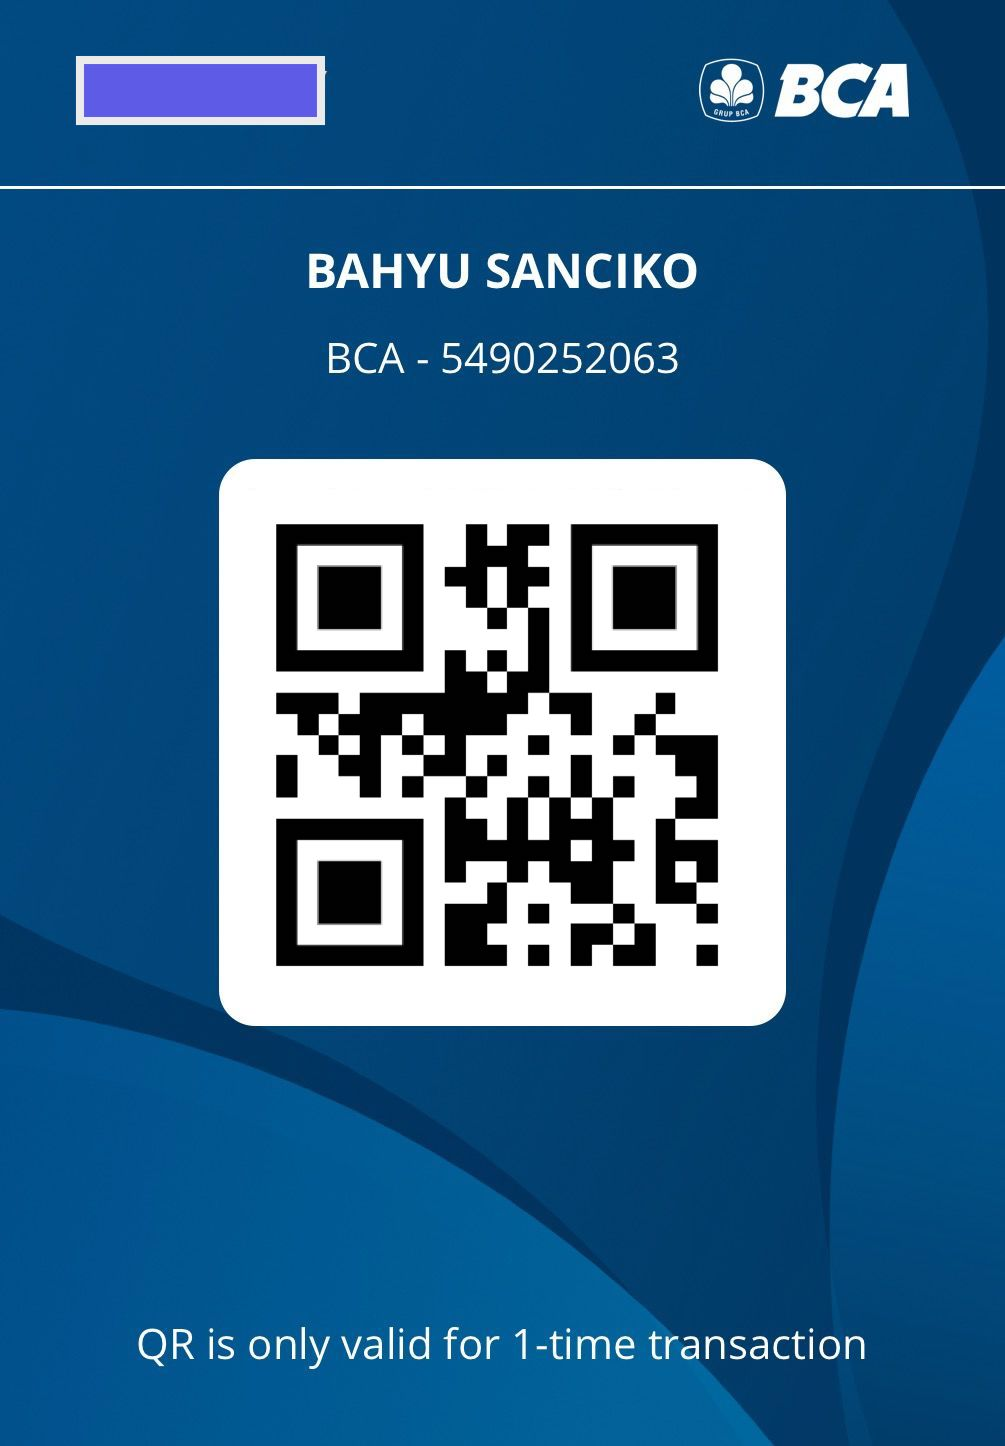
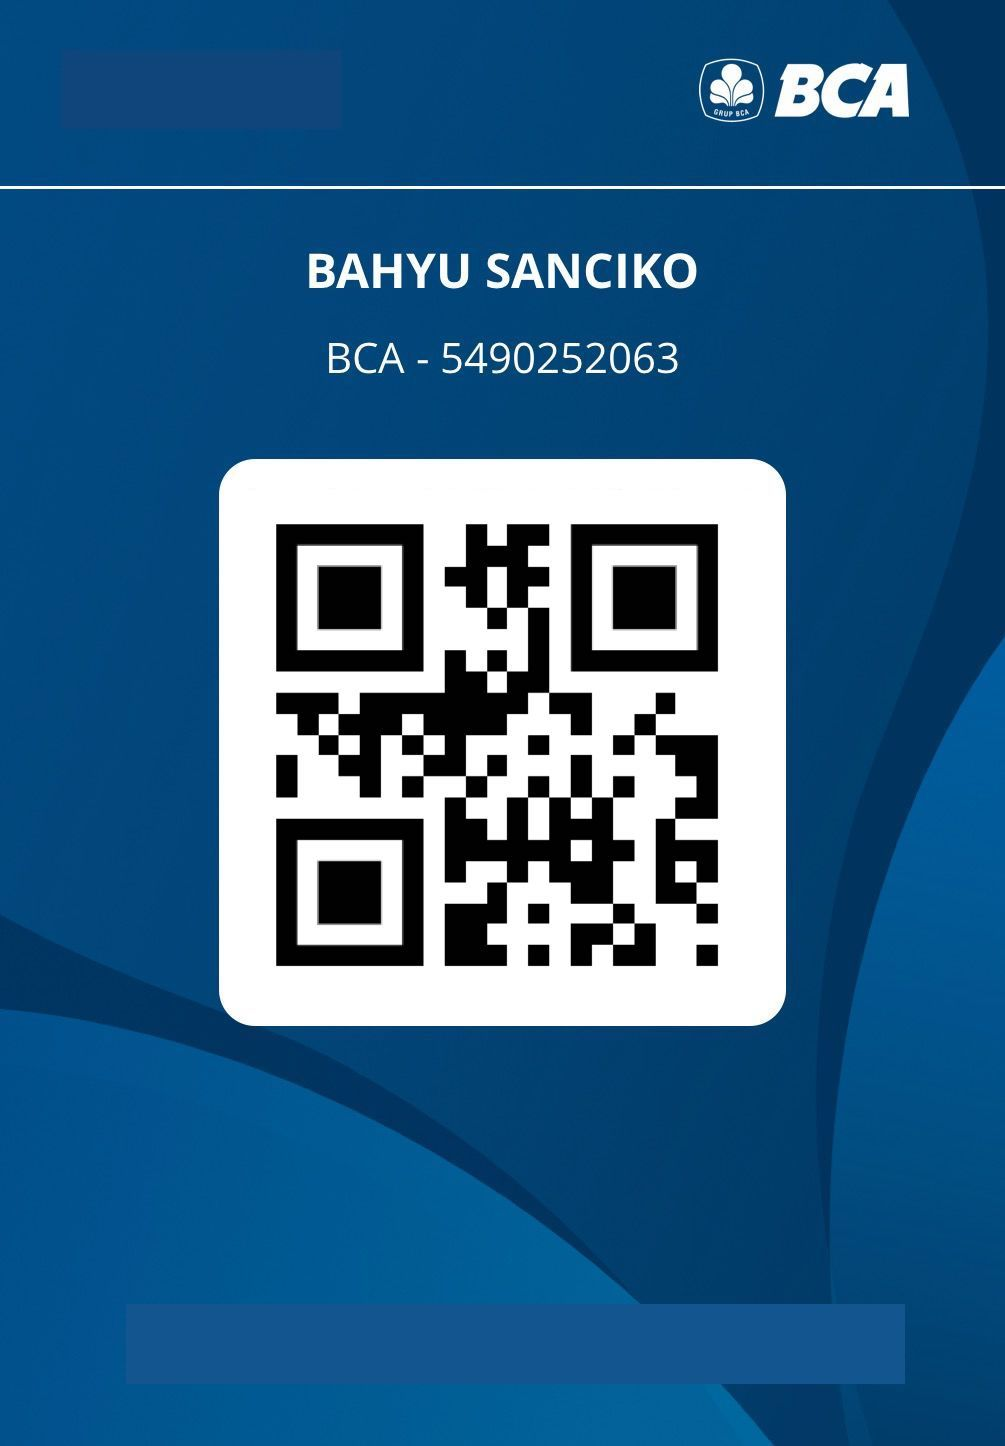
fix: image

Changed region(s): [[0.1234, 0.9025, 0.9254, 0.9647], [0.0617, 0.0311, 0.3393, 0.0934]]

diff --git a/src/data.js b/src/data.js
@@ -5,8 +5,28 @@ export const data = {
       bgm: require('./assets/song.mp3'),
     },
     header: {
-      bgImageLandscape: [require('./assets/images/bgp-1.jpg'), require('./assets/images/bgp-2.jpg'), require('./assets/images/bgp-3.jpg'),require('./assets/images/bgp-4.jpg'), require('./assets/images/bgp-5.jpg'), require('./assets/images/bgp-6.jpg')],
-      bgImagePortrait: [require('./assets/images/bg-1.jpeg'), require('./assets/images/bg-2.jpeg'), require('./assets/images/bg-3.jpeg'),require('./assets/images/bg-4.jpeg'), require('./assets/images/bg-5.jpeg'), require('./assets/images/bg-6.jpeg')],
+      bgImageLandscape: [require('./assets/images/moment/ls-1.jpg'), require('./assets/images/moment/ls-2.jpg'), require('./assets/images/moment/ls-3.jpg'),require('./assets/images/moment/ls-4.jpg'), require('./assets/images/moment/ls-5.jpg'), require('./assets/images/moment/ls-6.jpg'),require('./assets/images/moment/ls-7.jpg'), require('./assets/images/moment/ls-8.jpg'), require('./assets/images/moment/ls-9.jpg'),require('./assets/images/moment/ls-10.jpg')],
+      bgImagePortrait: [
+        require('./assets/images/moment/pt-1.jpg'),
+        require('./assets/images/moment/pt-2.jpg'),
+        require('./assets/images/moment/pt-3.jpg'),
+        require('./assets/images/moment/pt-4.jpg'),
+        require('./assets/images/moment/pt-5.jpg'),
+        require('./assets/images/moment/pt-6.jpg'),
+        require('./assets/images/moment/pt-7.jpg'),
+        require('./assets/images/moment/pt-8.jpg'),
+        require('./assets/images/moment/pt-9.jpg'),
+        require('./assets/images/moment/pt-10.jpg'),
+        require('./assets/images/moment/pt-11.jpg'),
+        require('./assets/images/moment/pt-12.jpg'),
+        require('./assets/images/moment/pt-13.jpg'),
+        require('./assets/images/moment/pt-14.jpg'),
+        require('./assets/images/moment/pt-15.jpg'),
+        require('./assets/images/moment/pt-16.jpg'),
+        require('./assets/images/moment/pt-17.jpg'),
+        require('./assets/images/moment/pt-18.jpg'),
+        require('./assets/images/moment/pt-19.jpg'),
+      ],
       bridegroom: 'Sella & Bahyu',
       desc: 'AKAN MENIKAH',
       date: '3 NOVEMBER 2024',
@@ -86,80 +106,173 @@ export const data = {
     moment: {
       images: [
         {
-          src: require('./assets/images/moment/bg-1.jpeg'),
-          thumbnail: require('./assets/images/moment/thumbnails/bg-1.jpeg'),
+          src: require('./assets/images/moment/pt-1.jpg'),
+          thumbnail: require('./assets/images/moment/pt-1.jpg'),
           thumbnailWidth: 320,
           thumbnailHeight: 200,
         },
         {
-          src: require('./assets/images/moment/bg-2.jpeg'),
-          thumbnail: require('./assets/images/moment/thumbnails/bg-2.jpeg'),
+          src: require('./assets/images/moment/pt-2.jpg'),
+          thumbnail: require('./assets/images/moment/pt-2.jpg'),
           thumbnailWidth: 240,
           thumbnailHeight: 320,
         },
         {
-          src: require('./assets/images/moment/bg-3.jpeg'),
-          thumbnail: require('./assets/images/moment/thumbnails/bg-3.jpeg'),
+          src: require('./assets/images/moment/pt-3.jpg'),
+          thumbnail: require('./assets/images/moment/pt-3.jpg'),
           thumbnailWidth: 320,
           thumbnailHeight: 200,
         },
         {
-          src: require('./assets/images/moment/bg-4.jpeg'),
-          thumbnail: require('./assets/images/moment/thumbnails/bg-4.jpeg'),
+          src: require('./assets/images/moment/pt-4.jpg'),
+          thumbnail: require('./assets/images/moment/pt-4.jpg'),
           thumbnailWidth: 240,
           thumbnailHeight: 320,
         },
         {
-          src: require('./assets/images/moment/bg-5.jpeg'),
-          thumbnail: require('./assets/images/moment/thumbnails/bg-5.jpeg'),
+          src: require('./assets/images/moment/pt-5.jpg'),
+          thumbnail: require('./assets/images/moment/pt-5.jpg'),
           thumbnailWidth: 320,
           thumbnailHeight: 200,
         },
         {
-          src: require('./assets/images/moment/bg-6.jpeg'),
-          thumbnail: require('./assets/images/moment/thumbnails/bg-6.jpeg'),
+          src: require('./assets/images/moment/pt-6.jpg'),
+          thumbnail: require('./assets/images/moment/pt-6.jpg'),
           thumbnailWidth: 240,
           thumbnailHeight: 320,
         },
-        
         {
-          src: require('./assets/images/moment/bgp-1.jpg'),
-          thumbnail: require('./assets/images/moment/thumbnails/bgp-1.jpg'),
+          src: require('./assets/images/moment/pt-7.jpg'),
+          thumbnail: require('./assets/images/moment/pt-7.jpg'),
           thumbnailWidth: 320,
           thumbnailHeight: 200,
         },
         {
-          src: require('./assets/images/moment/bgp-2.jpg'),
-          thumbnail: require('./assets/images/moment/thumbnails/bgp-2.jpg'),
+          src: require('./assets/images/moment/pt-8.jpg'),
+          thumbnail: require('./assets/images/moment/pt-8.jpg'),
           thumbnailWidth: 240,
           thumbnailHeight: 320,
         },
         {
-          src: require('./assets/images/moment/bgp-3.jpg'),
-          thumbnail: require('./assets/images/moment/thumbnails/bgp-3.jpg'),
+          src: require('./assets/images/moment/pt-9.jpg'),
+          thumbnail: require('./assets/images/moment/pt-9.jpg'),
           thumbnailWidth: 320,
           thumbnailHeight: 200,
         },
         {
-          src: require('./assets/images/moment/bgp-4.jpg'),
-          thumbnail: require('./assets/images/moment/thumbnails/bgp-4.jpg'),
+          src: require('./assets/images/moment/pt-11.jpg'),
+          thumbnail: require('./assets/images/moment/pt-11.jpg'),
           thumbnailWidth: 240,
           thumbnailHeight: 320,
         },
         {
-          src: require('./assets/images/moment/bgp-5.jpg'),
-          thumbnail: require('./assets/images/moment/thumbnails/bgp-5.jpg'),
+          src: require('./assets/images/moment/pt-12.jpg'),
+          thumbnail: require('./assets/images/moment/pt-12.jpg'),
           thumbnailWidth: 320,
           thumbnailHeight: 200,
         },
         {
-          src: require('./assets/images/moment/bgp-6.jpg'),
-          thumbnail: require('./assets/images/moment/thumbnails/bgp-6.jpg'),
+          src: require('./assets/images/moment/pt-13.jpg'),
+          thumbnail: require('./assets/images/moment/pt-13.jpg'),
           thumbnailWidth: 240,
           thumbnailHeight: 320,
         },
-        
-        
+        {
+          src: require('./assets/images/moment/pt-14.jpg'),
+          thumbnail: require('./assets/images/moment/pt-14.jpg'),
+          thumbnailWidth: 320,
+          thumbnailHeight: 200,
+        },
+        {
+          src: require('./assets/images/moment/pt-15.jpg'),
+          thumbnail: require('./assets/images/moment/pt-15.jpg'),
+          thumbnailWidth: 240,
+          thumbnailHeight: 320,
+        },
+        {
+          src: require('./assets/images/moment/pt-16.jpg'),
+          thumbnail: require('./assets/images/moment/pt-16.jpg'),
+          thumbnailWidth: 320,
+          thumbnailHeight: 200,
+        },
+        {
+          src: require('./assets/images/moment/pt-17.jpg'),
+          thumbnail: require('./assets/images/moment/pt-17.jpg'),
+          thumbnailWidth: 240,
+          thumbnailHeight: 320,
+        },
+        {
+          src: require('./assets/images/moment/pt-18.jpg'),
+          thumbnail: require('./assets/images/moment/pt-18.jpg'),
+          thumbnailWidth: 320,
+          thumbnailHeight: 200,
+        },
+        {
+          src: require('./assets/images/moment/pt-19.jpg'),
+          thumbnail: require('./assets/images/moment/pt-19.jpg'),
+          thumbnailWidth: 240,
+          thumbnailHeight: 320,
+        },
+        {
+          src: require('./assets/images/moment/ls-1.jpg'),
+          thumbnail: require('./assets/images/moment/ls-1.jpg'),
+          thumbnailWidth: 320,
+          thumbnailHeight: 200,
+        },
+        {
+          src: require('./assets/images/moment/ls-2.jpg'),
+          thumbnail: require('./assets/images/moment/ls-2.jpg'),
+          thumbnailWidth: 240,
+          thumbnailHeight: 320,
+        },
+        {
+          src: require('./assets/images/moment/ls-3.jpg'),
+          thumbnail: require('./assets/images/moment/ls-3.jpg'),
+          thumbnailWidth: 320,
+          thumbnailHeight: 200,
+        },
+        {
+          src: require('./assets/images/moment/ls-4.jpg'),
+          thumbnail: require('./assets/images/moment/ls-4.jpg'),
+          thumbnailWidth: 240,
+          thumbnailHeight: 320,
+        },
+        {
+          src: require('./assets/images/moment/ls-5.jpg'),
+          thumbnail: require('./assets/images/moment/ls-5.jpg'),
+          thumbnailWidth: 320,
+          thumbnailHeight: 200,
+        },
+        {
+          src: require('./assets/images/moment/ls-6.jpg'),
+          thumbnail: require('./assets/images/moment/ls-6.jpg'),
+          thumbnailWidth: 240,
+          thumbnailHeight: 320,
+        },
+        {
+          src: require('./assets/images/moment/ls-7.jpg'),
+          thumbnail: require('./assets/images/moment/ls-7.jpg'),
+          thumbnailWidth: 320,
+          thumbnailHeight: 200,
+        },
+        {
+          src: require('./assets/images/moment/ls-8.jpg'),
+          thumbnail: require('./assets/images/moment/ls-8.jpg'),
+          thumbnailWidth: 240,
+          thumbnailHeight: 320,
+        },
+        {
+          src: require('./assets/images/moment/ls-9.jpg'),
+          thumbnail: require('./assets/images/moment/ls-9.jpg'),
+          thumbnailWidth: 320,
+          thumbnailHeight: 200,
+        },
+        {
+          src: require('./assets/images/moment/ls-10.jpg'),
+          thumbnail: require('./assets/images/moment/ls-10.jpg'),
+          thumbnailWidth: 240,
+          thumbnailHeight: 320,
+        },
       ],
     },
     location: {
@@ -169,12 +282,12 @@ export const data = {
       title: 'Kami sangat berterima kasih atas kehadiran dan doa restu Anda. Jika Anda ingin mengirimkan hadiah, Anda dapat menggunakan tautan pembayaran atau kode QR berikut:',
       images: [
         {
-          title: 'BCA - Bahyu',
+          title: 'BCA - 5490252063 a/n Bahyu',
           src:require('./assets/images/gift/bahyu-bca.jpeg'),
         },
         {
-          title: 'BCA - Sella',
-          src:require('./assets/images/gift/bahyu-bca.jpeg'),
+          title: 'BCA - 1610026458 a/n Sella',
+          src:require('./assets/images/gift/sella-bca.jpeg'),
         },
       ],
     }

diff --git a/src/parts/Header.js b/src/parts/Header.js
@@ -20,7 +20,7 @@ const Header = ({ data, firstLoad, setFirstLoad, bgm }) => {
 
     const isPortrait = window.innerHeight > window.innerWidth;
     const backgrounds = isPortrait ? data.bgImagePortrait : data.bgImageLandscape;
-
+    
     return (
       <div className="container-fluid">
         <Slider {...settings}>

diff --git a/src/pages/Home.js b/src/pages/Home.js
@@ -1,7 +1,6 @@
 import React, { useEffect, useState } from 'react';
 import Snowfall from 'react-snowfall';
 import { Howler } from 'howler';
-
 import Header from '../parts/Header';
 import Navbar from '../parts/Navbar';
 import Couple from '../parts/Couple';
